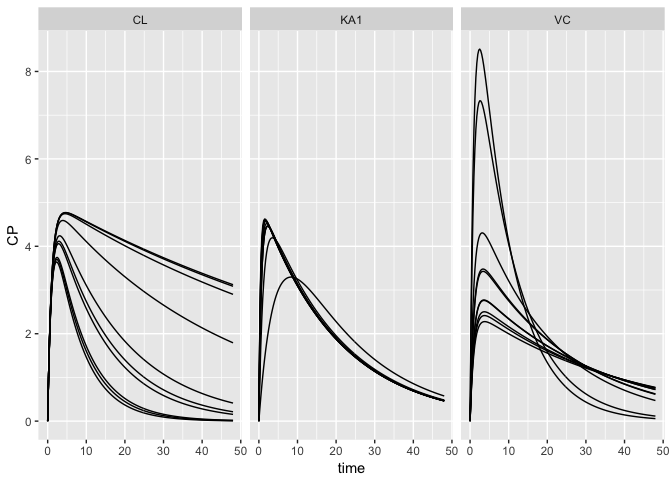
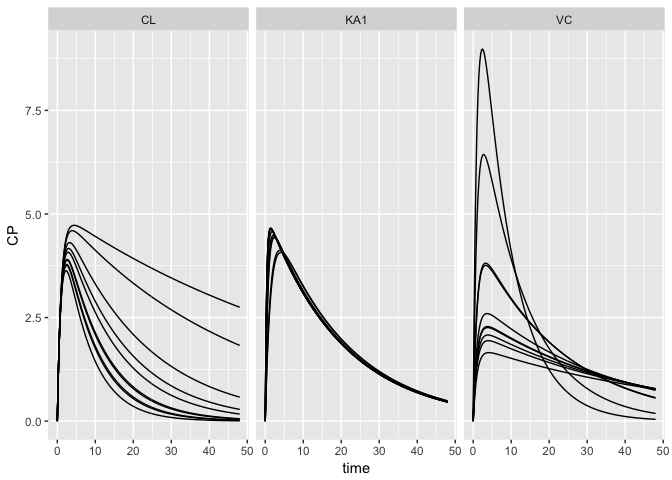
tweak readme

diff --git a/README.md b/README.md
@@ -47,16 +47,16 @@ out
     . # A tibble: 1,930 x 8
     .       ID  time    CP    CL    VC   KA1 name         value
     .    <dbl> <dbl> <dbl> <dbl> <dbl> <dbl> <chr>        <dbl>
-    .  1  1.00 0     0      2.99  38.5 0.259 multivariate  1.00
-    .  2  1.00 0.250 0.161  2.99  38.5 0.259 multivariate  1.00
-    .  3  1.00 0.500 0.309  2.99  38.5 0.259 multivariate  1.00
-    .  4  1.00 0.750 0.445  2.99  38.5 0.259 multivariate  1.00
-    .  5  1.00 1.00  0.569  2.99  38.5 0.259 multivariate  1.00
-    .  6  1.00 1.25  0.683  2.99  38.5 0.259 multivariate  1.00
-    .  7  1.00 1.50  0.786  2.99  38.5 0.259 multivariate  1.00
-    .  8  1.00 1.75  0.880  2.99  38.5 0.259 multivariate  1.00
-    .  9  1.00 2.00  0.966  2.99  38.5 0.259 multivariate  1.00
-    . 10  1.00 2.25  1.04   2.99  38.5 0.259 multivariate  1.00
+    .  1  1.00 0      0     2.33  24.9  2.26 multivariate  1.00
+    .  2  1.00 0.250  1.71  2.33  24.9  2.26 multivariate  1.00
+    .  3  1.00 0.500  2.64  2.33  24.9  2.26 multivariate  1.00
+    .  4  1.00 0.750  3.13  2.33  24.9  2.26 multivariate  1.00
+    .  5  1.00 1.00   3.38  2.33  24.9  2.26 multivariate  1.00
+    .  6  1.00 1.25   3.48  2.33  24.9  2.26 multivariate  1.00
+    .  7  1.00 1.50   3.50  2.33  24.9  2.26 multivariate  1.00
+    .  8  1.00 1.75   3.47  2.33  24.9  2.26 multivariate  1.00
+    .  9  1.00 2.00   3.43  2.33  24.9  2.26 multivariate  1.00
+    . 10  1.00 2.25   3.37  2.33  24.9  2.26 multivariate  1.00
     . # ... with 1,920 more rows
 
 ``` r
@@ -79,16 +79,16 @@ out
     . # A tibble: 5,790 x 5
     .       ID  time    CP name  value
     .    <dbl> <dbl> <dbl> <chr> <dbl>
-    .  1  1.00 0      0    CL     2.39
-    .  2  1.00 0.250  1.09 CL     2.39
-    .  3  1.00 0.500  1.90 CL     2.39
-    .  4  1.00 0.750  2.51 CL     2.39
-    .  5  1.00 1.00   2.95 CL     2.39
-    .  6  1.00 1.25   3.26 CL     2.39
-    .  7  1.00 1.50   3.48 CL     2.39
-    .  8  1.00 1.75   3.62 CL     2.39
-    .  9  1.00 2.00   3.70 CL     2.39
-    . 10  1.00 2.25   3.74 CL     2.39
+    .  1  1.00 0      0    CL     1.90
+    .  2  1.00 0.250  1.09 CL     1.90
+    .  3  1.00 0.500  1.92 CL     1.90
+    .  4  1.00 0.750  2.54 CL     1.90
+    .  5  1.00 1.00   2.99 CL     1.90
+    .  6  1.00 1.25   3.32 CL     1.90
+    .  7  1.00 1.50   3.56 CL     1.90
+    .  8  1.00 1.75   3.72 CL     1.90
+    .  9  1.00 2.00   3.82 CL     1.90
+    . 10  1.00 2.25   3.88 CL     1.90
     . # ... with 5,780 more rows
 
 ``` r
@@ -111,16 +111,16 @@ mod %>%
     . # A tibble: 1,930 x 7
     .       ID  time    CP    CL    VC name         value
     .    <dbl> <dbl> <dbl> <dbl> <dbl> <chr>        <dbl>
-    .  1  1.00 0      0    0.992  20.5 multivariate  1.00
-    .  2  1.00 0.250  1.07 0.992  20.5 multivariate  1.00
-    .  3  1.00 0.500  1.89 0.992  20.5 multivariate  1.00
-    .  4  1.00 0.750  2.52 0.992  20.5 multivariate  1.00
-    .  5  1.00 1.00   3.00 0.992  20.5 multivariate  1.00
-    .  6  1.00 1.25   3.35 0.992  20.5 multivariate  1.00
-    .  7  1.00 1.50   3.62 0.992  20.5 multivariate  1.00
-    .  8  1.00 1.75   3.82 0.992  20.5 multivariate  1.00
-    .  9  1.00 2.00   3.96 0.992  20.5 multivariate  1.00
-    . 10  1.00 2.25   4.05 0.992  20.5 multivariate  1.00
+    .  1  1.00 0     0      1.74  35.1 multivariate  1.00
+    .  2  1.00 0.250 0.627  1.74  35.1 multivariate  1.00
+    .  3  1.00 0.500 1.11   1.74  35.1 multivariate  1.00
+    .  4  1.00 0.750 1.47   1.74  35.1 multivariate  1.00
+    .  5  1.00 1.00  1.75   1.74  35.1 multivariate  1.00
+    .  6  1.00 1.25  1.96   1.74  35.1 multivariate  1.00
+    .  7  1.00 1.50  2.12   1.74  35.1 multivariate  1.00
+    .  8  1.00 1.75  2.23   1.74  35.1 multivariate  1.00
+    .  9  1.00 2.00  2.31   1.74  35.1 multivariate  1.00
+    . 10  1.00 2.25  2.37   1.74  35.1 multivariate  1.00
     . # ... with 1,920 more rows
 
 ### `sens_seq`
@@ -174,24 +174,14 @@ mod %>%
 or
 
 ``` r
-mod %>%
-  sens_spaced(.n = 5, .factor = 4, CL = c(0.4, 1.5), VC = c(10,50))
+out <- 
+  mod %>%
+  sens_spaced(CL = c(0.5, 1.5), VC = c(10,40), .n = 5)
+
+ggplot(out, aes(time,CP, group = ID)) + geom_line() + facet_wrap(~name)
 ```
 
-    . # A tibble: 5,790 x 5
-    .       ID  time    CP name  value
-    .    <dbl> <dbl> <dbl> <chr> <dbl>
-    .  1  1.00 0      0    CL    0.250
-    .  2  1.00 0.250  1.10 CL    0.250
-    .  3  1.00 0.500  1.96 CL    0.250
-    .  4  1.00 0.750  2.62 CL    0.250
-    .  5  1.00 1.00   3.14 CL    0.250
-    .  6  1.00 1.25   3.53 CL    0.250
-    .  7  1.00 1.50   3.84 CL    0.250
-    .  8  1.00 1.75   4.07 CL    0.250
-    .  9  1.00 2.00   4.25 CL    0.250
-    . 10  1.00 2.25   4.39 CL    0.250
-    . # ... with 5,780 more rows
+![](inst/maintenance/img/README-unnamed-chunk-8-1.png)
 
 ### `sens_grid`
 
@@ -241,16 +231,16 @@ out
     . # A tibble: 19,300 x 7
     .       ID  time    CP    CL    VC name         value
     .    <dbl> <dbl> <dbl> <dbl> <dbl> <chr>        <dbl>
-    .  1  1.00 0     0      2.06  58.0 multivariate  1.00
-    .  2  1.00 0.250 0.380  2.06  58.0 multivariate  1.00
-    .  3  1.00 0.500 0.672  2.06  58.0 multivariate  1.00
-    .  4  1.00 0.750 0.897  2.06  58.0 multivariate  1.00
-    .  5  1.00 1.00  1.07   2.06  58.0 multivariate  1.00
-    .  6  1.00 1.25  1.20   2.06  58.0 multivariate  1.00
-    .  7  1.00 1.50  1.30   2.06  58.0 multivariate  1.00
-    .  8  1.00 1.75  1.37   2.06  58.0 multivariate  1.00
-    .  9  1.00 2.00  1.42   2.06  58.0 multivariate  1.00
-    . 10  1.00 2.25  1.46   2.06  58.0 multivariate  1.00
+    .  1  1.00 0     0      2.51  67.1 multivariate  1.00
+    .  2  1.00 0.250 0.328  2.51  67.1 multivariate  1.00
+    .  3  1.00 0.500 0.581  2.51  67.1 multivariate  1.00
+    .  4  1.00 0.750 0.774  2.51  67.1 multivariate  1.00
+    .  5  1.00 1.00  0.922  2.51  67.1 multivariate  1.00
+    .  6  1.00 1.25  1.03   2.51  67.1 multivariate  1.00
+    .  7  1.00 1.50  1.12   2.51  67.1 multivariate  1.00
+    .  8  1.00 1.75  1.18   2.51  67.1 multivariate  1.00
+    .  9  1.00 2.00  1.23   2.51  67.1 multivariate  1.00
+    . 10  1.00 2.25  1.26   2.51  67.1 multivariate  1.00
     . # ... with 19,290 more rows
 
 ``` r
@@ -260,16 +250,16 @@ distinct(out,ID,CL,VC)
     . # A tibble: 100 x 3
     .       ID    CL    VC
     .    <dbl> <dbl> <dbl>
-    .  1  1.00  2.06  58.0
-    .  2  2.00  2.75  64.3
-    .  3  3.00  2.28  14.9
-    .  4  4.00  2.18  50.7
-    .  5  5.00  2.16  82.0
-    .  6  6.00  2.13  56.5
-    .  7  7.00  3.19  65.3
-    .  8  8.00  3.04  35.8
-    .  9  9.00  2.72 104  
-    . 10 10.0   2.52  17.0
+    .  1  1.00  2.51  67.1
+    .  2  2.00  2.28  36.4
+    .  3  3.00  3.08  32.2
+    .  4  4.00  1.29  34.2
+    .  5  5.00  3.37  56.0
+    .  6  6.00  1.09  10.5
+    .  7  7.00  2.85  28.7
+    .  8  8.00  1.66  19.4
+    .  9  9.00  2.33  24.9
+    . 10 10.0   1.18  29.0
     . # ... with 90 more rows
 
 Estimation `stats::optim`
